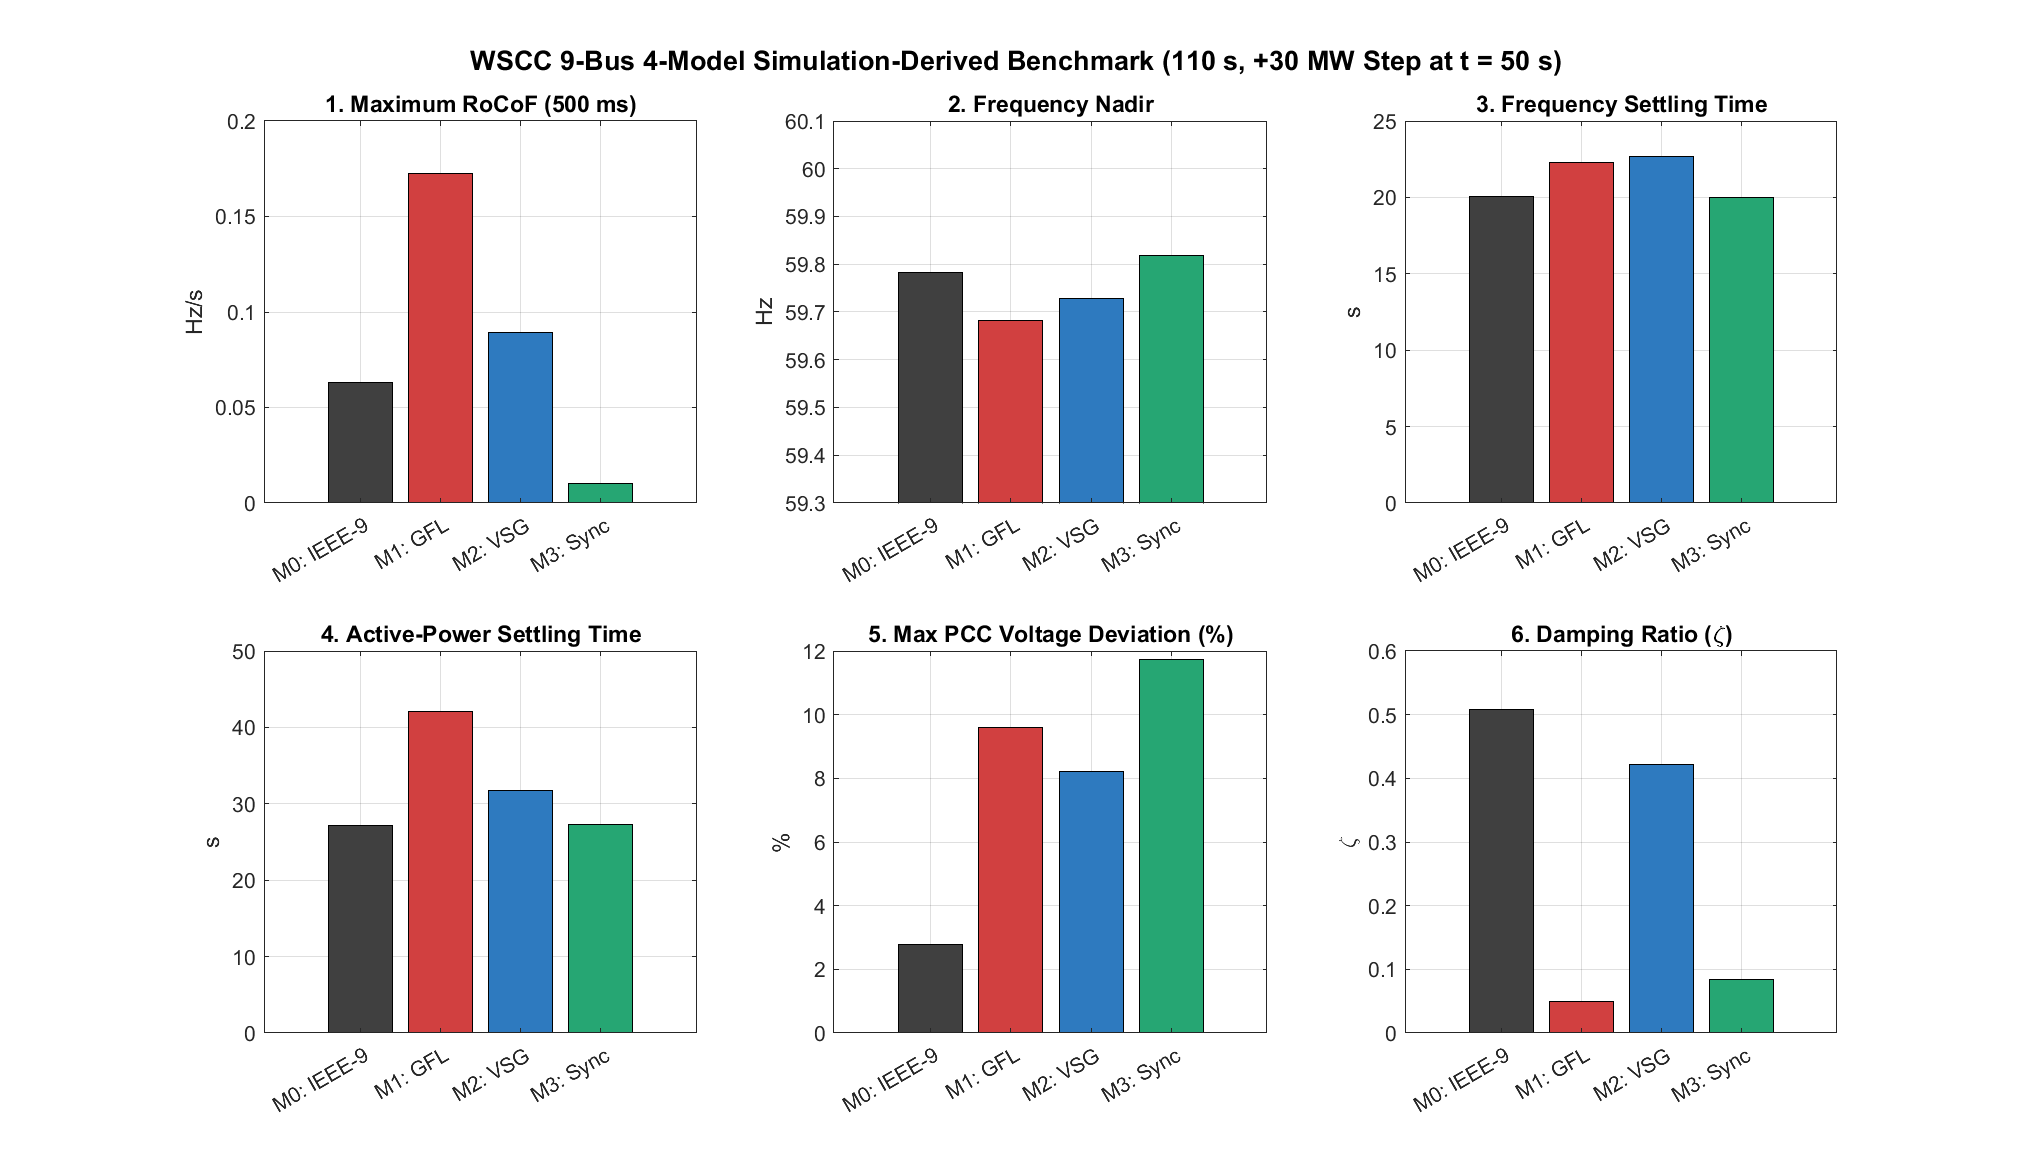
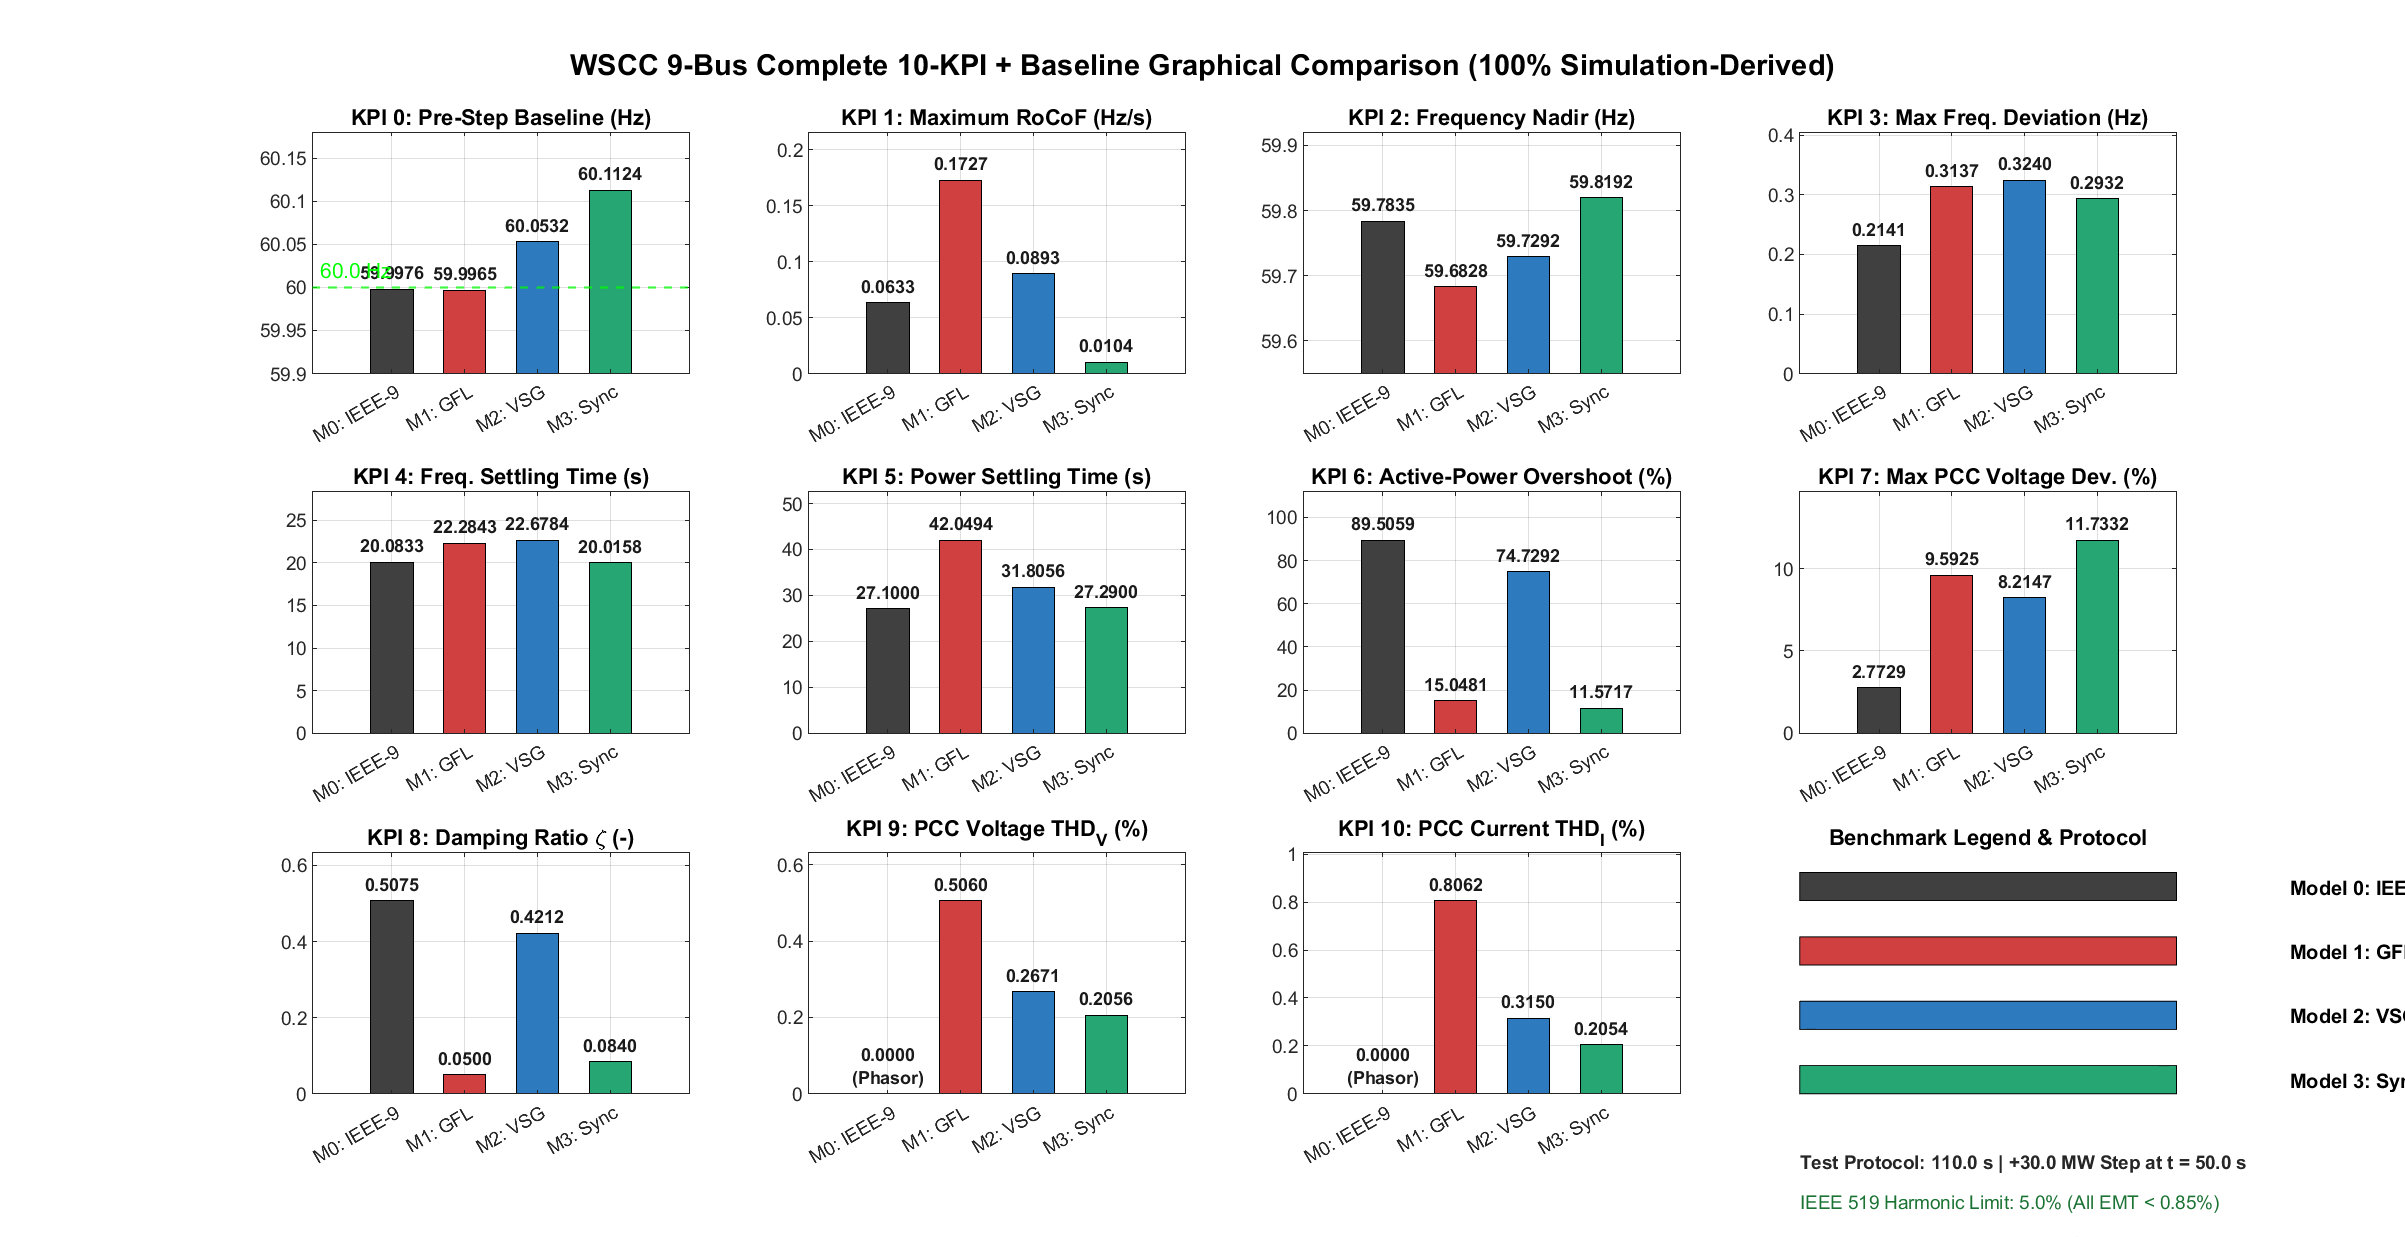
Add complete 10-KPI + Baseline graphical comparison charts across all 4 models

diff --git a/README.md b/README.md
@@ -15,15 +15,18 @@ matlab -batch "demo_all"
 
 ## Visual Performance Comparison Across All 4 Models
 
-### 1. Unified 4-Model 6-KPI Comparison
-![All Models Comparison](results/all_models_comparison.png)
+### 1. Complete 10-KPI + Baseline Comparison Dashboard (All 4 Models)
+![All Models Complete 10-KPI Comparison](results/all_models_comparison.png)
 
-### 2. Model 0 (IEEE 9-Bus Base Case) & Model 1 (GFL Baseline) 110 s Responses
+### 2. Normalized 10-KPI Trade-off Profile & IEEE 519 Harmonic Compliance
+![Normalized 10-KPI and IEEE 519 Harmonics](results/all_10_kpis_normalized.png)
+
+### 3. Model 0 (IEEE 9-Bus Base Case) & Model 1 (GFL Baseline) 110 s Responses
 ![Model 0 Response](results/model0_response.png)
 
 ![Model 1 Response](results/model1_response.png)
 
-### 3. VSG Sensitivity, Theoretical Droop Verification & IEEE 519 Harmonics
+### 4. VSG Sensitivity, Theoretical Droop Verification & IEEE 519 Harmonics
 ![VSG Theory and Harmonics](results/vsg_theory_and_harmonics.png)
 
 ---
